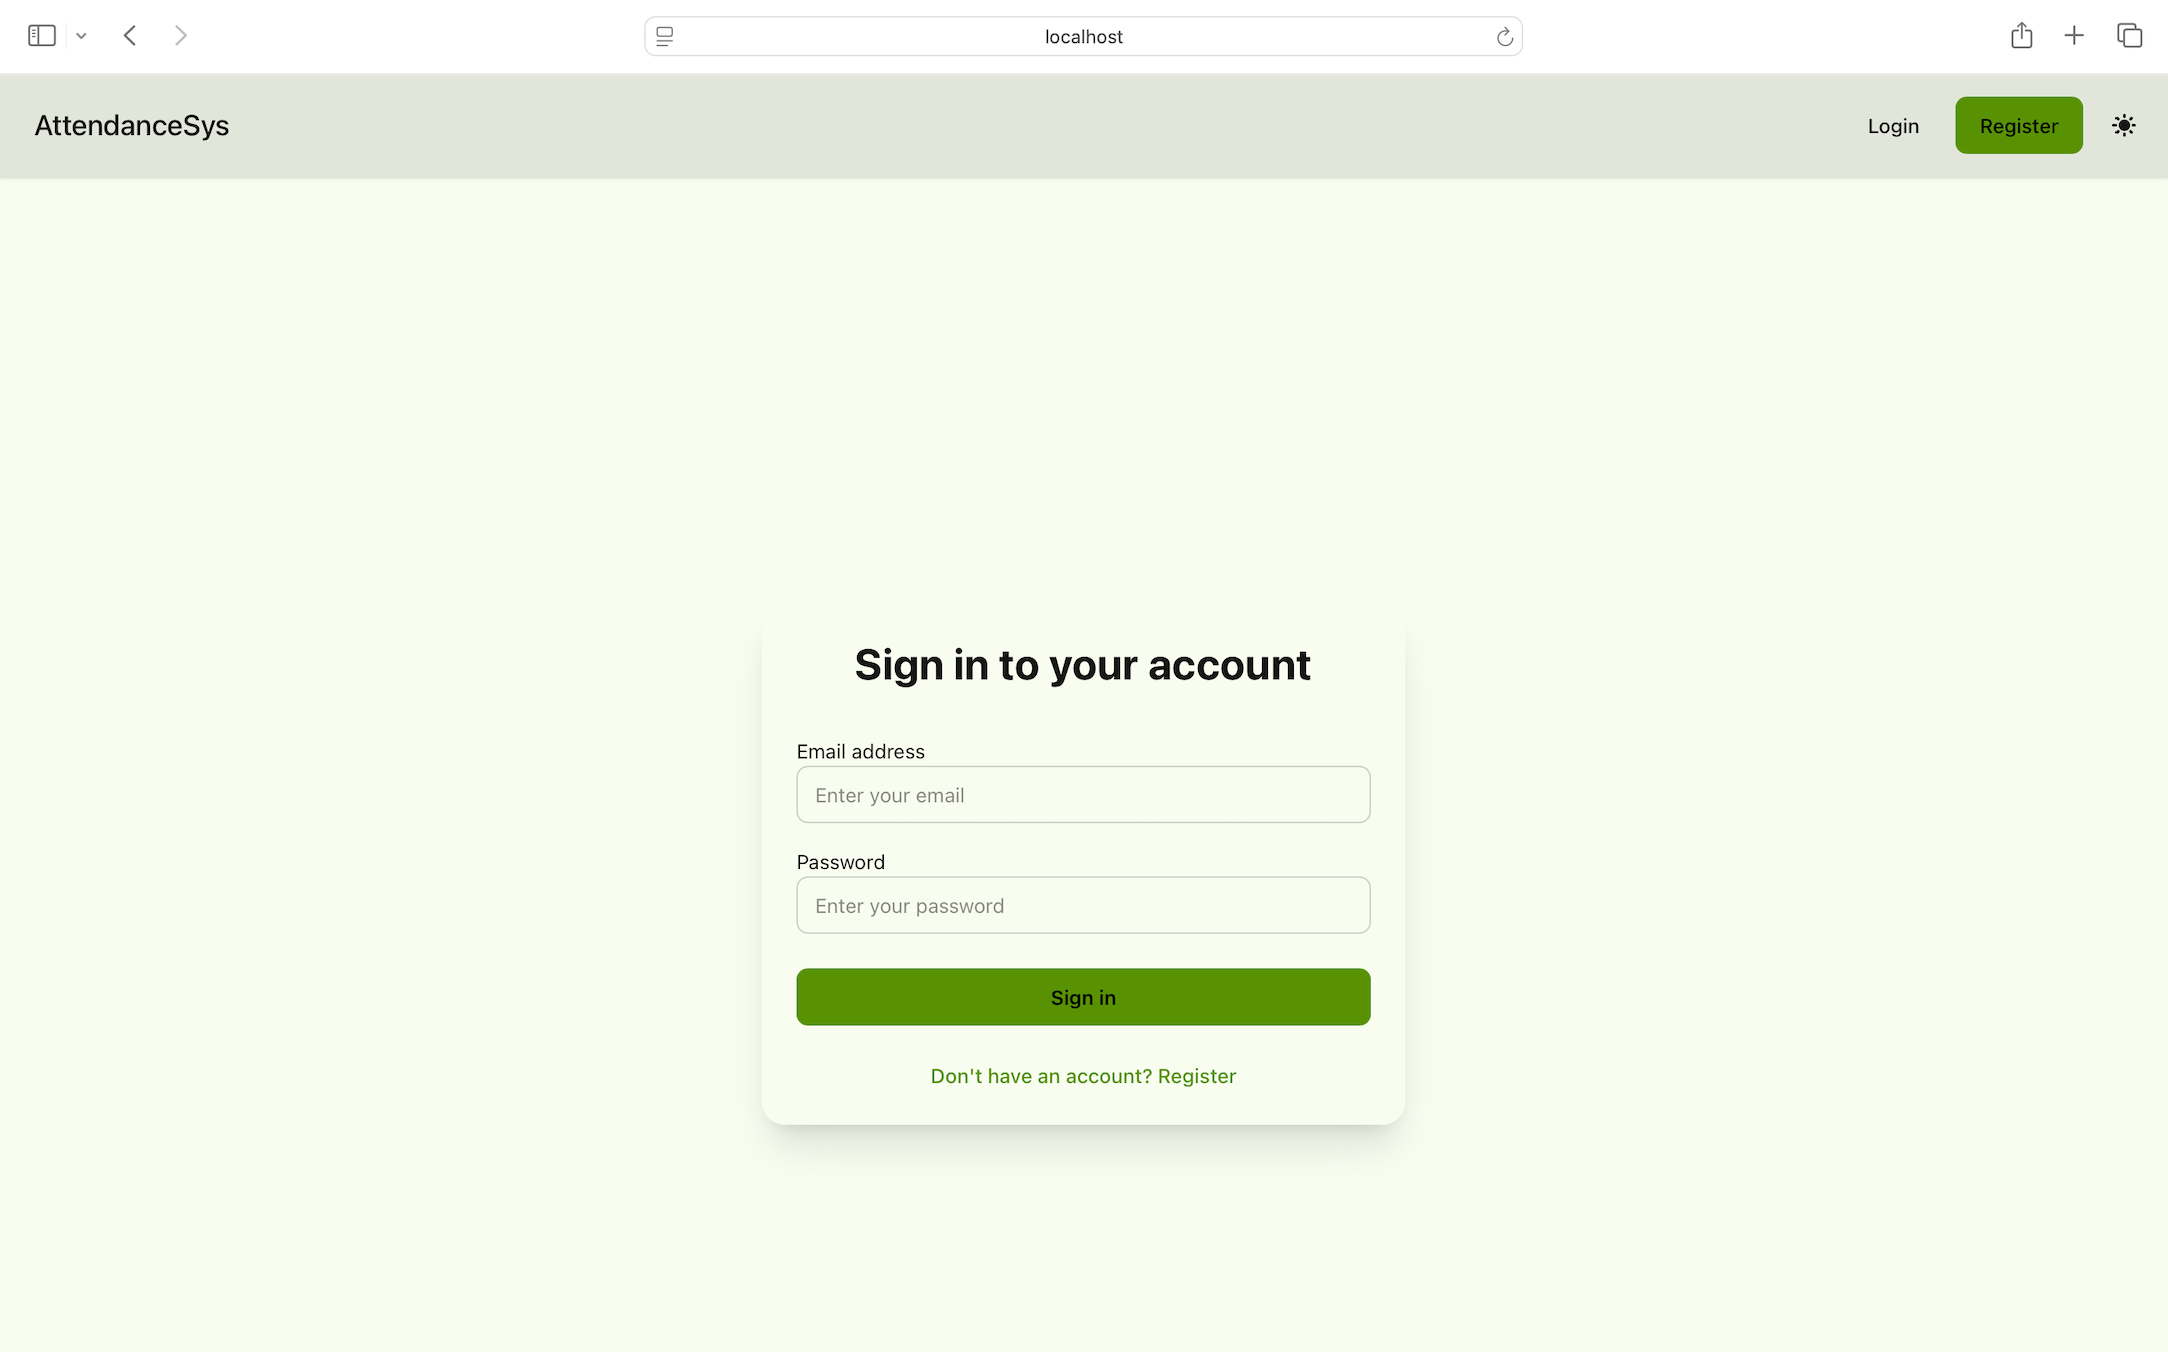
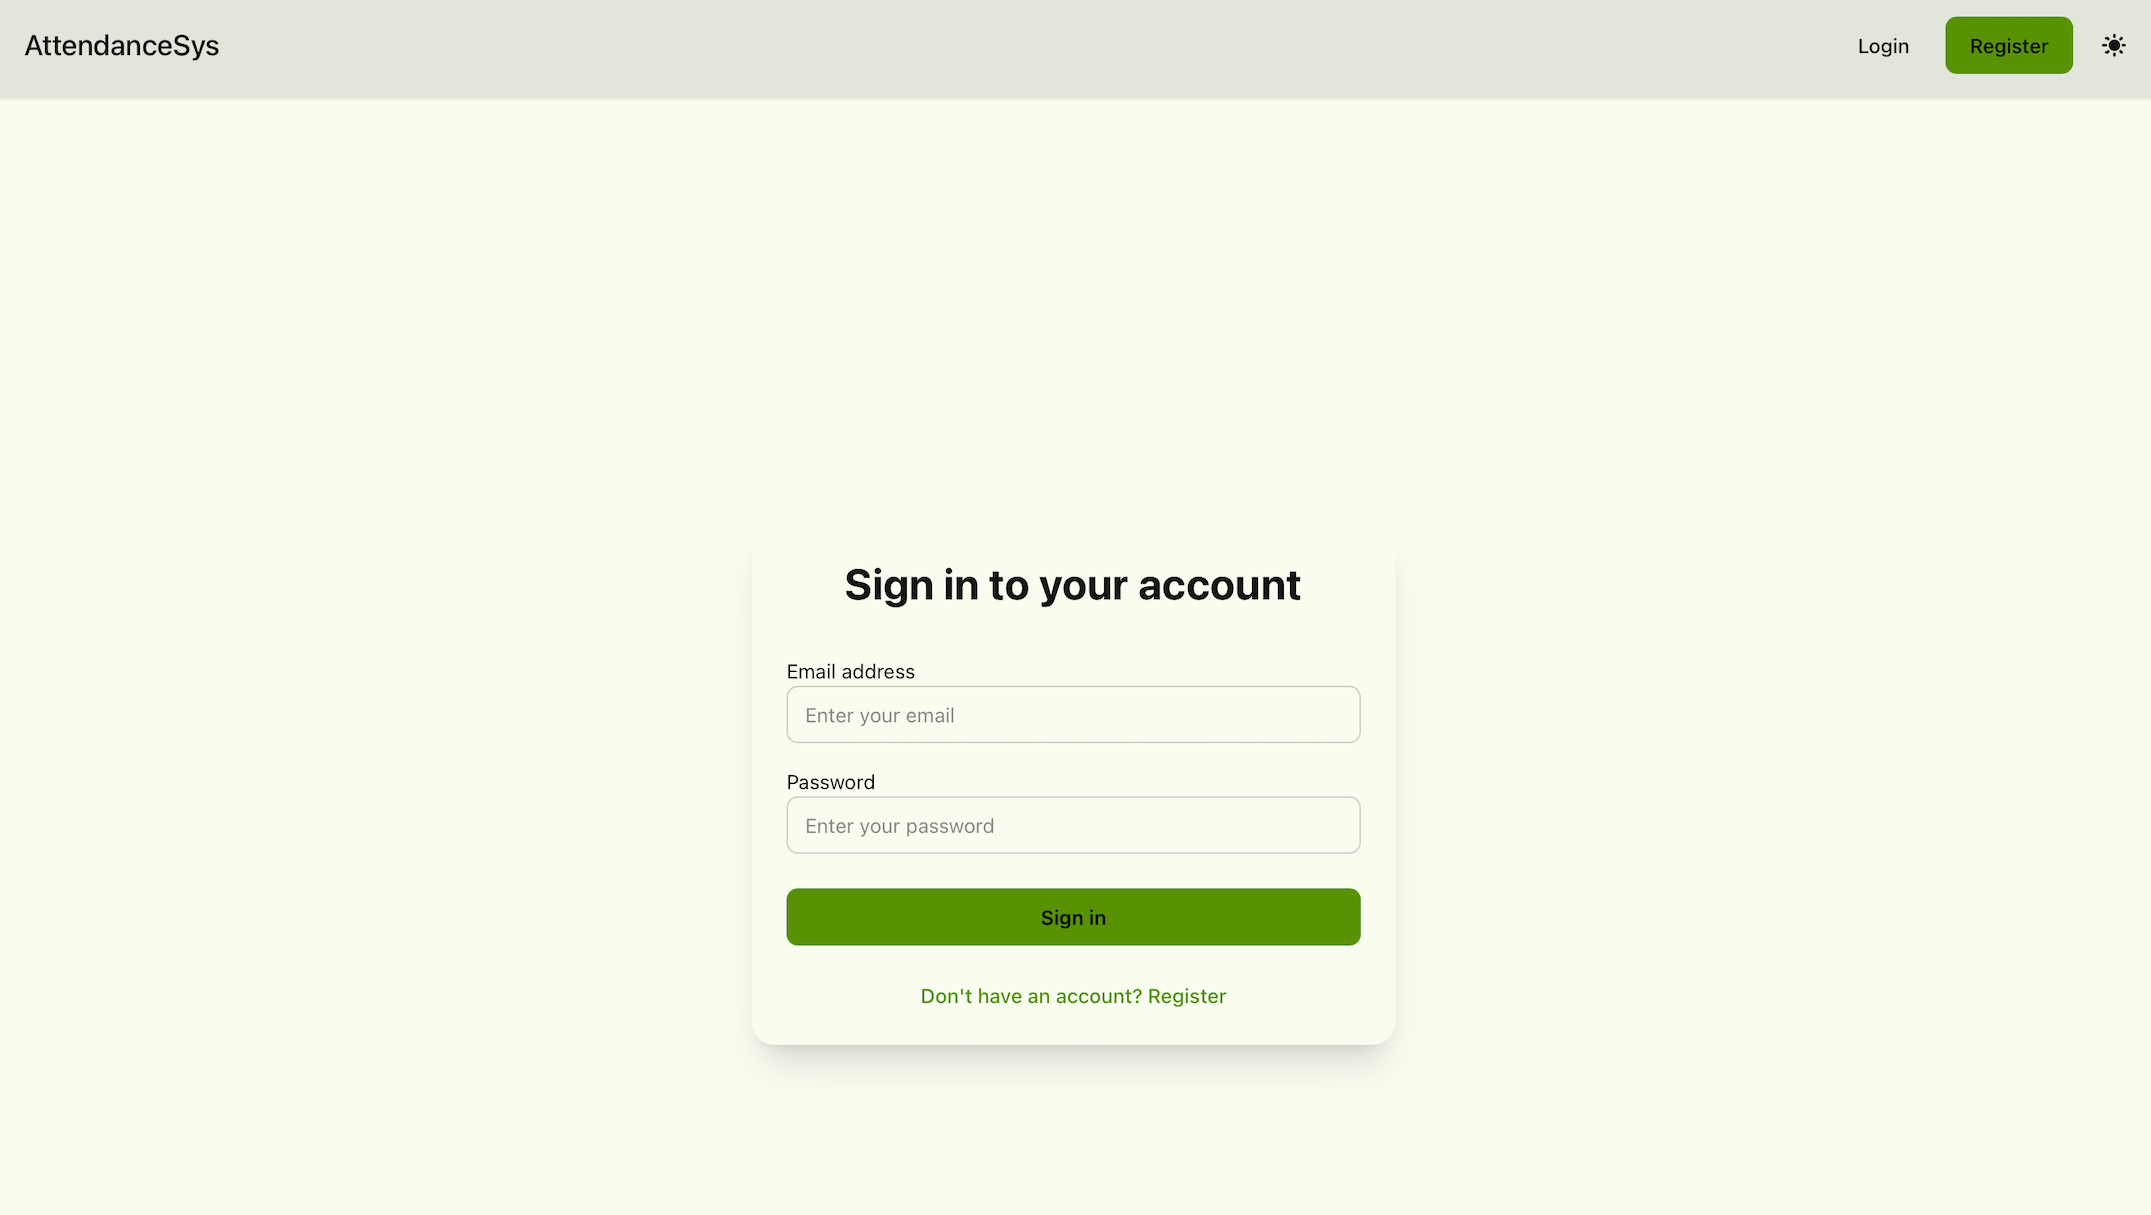
Fix layout attribute duplication and optimize image fit

Changed region(s): [[0.0, 0.0, 1.0, 0.1218], [0.3426, 0.5481, 0.6541, 0.8831], [0.3738, 0.4568, 0.623, 0.5177]]

diff --git a/src/components/WorkExperience.vue b/src/components/WorkExperience.vue
@@ -30,7 +30,7 @@
                         <ul class="space-y-3">
                             <li v-for="(point, i) in selectedJob.points" :key="i" class="flex items-start gap-3">
                                 <span class="text-purple-400 mt-1.5 shrink-0">✦</span>
-                                <span class="text-sm text-slate-600 leading-relaxed">{{ point }}</span>
+                                <span class="text-xs text-slate-600 leading-relaxed">{{ point }}</span>
                             </li>
                         </ul>
 
@@ -56,32 +56,52 @@ import FolderCard from './FolderCard.vue'
 
 const experiences = [
     {
-        company: "Just Click IT Solutions",
-        role: "Full Stack Developer",
-        date: "Aug 2023 – Nov 2025",
-        location: "Remote",
+        company: "Just Click IT Solution",
+        role: "Fullstack Developer",
+        date: "2023 – 2025",
+        location: "Remote | Cebu City",
         points: [
-            "Designed responsive UI/UX layouts using Figma.",
-            "Developed user-centered web apps with modern frontend practices.",
-            "Implemented SEO optimization for search visibility.",
-            "Conducted E2E testing with Cypress.",
-            "Managed cloud deployment via cPanel.",
-            "Maintained Django-based backend systems."
+            "Designed responsive UI/UX layouts using Figma, ensuring intuitive and user-friendly interfaces.",
+            "Developed user-centered web applications using React.js and modern frontend best practices.",
+            "Implemented SEO optimization techniques to improve search engine visibility and performance.",
+            "Conducted end-to-end (E2E) testing using Cypress to ensure application reliability.",
+            "Managed cloud deployment and hosting using cPanel.",
+            "Maintained backend systems built with Python (Django REST Framework).",
+            "Handled database design, management, and optimization using MySQL."
         ],
-        tech: ["Figma", "Vue.js", "Django", "Cypress", "cPanel", "SEO"]
+        tech: ["Figma", "React.js", "SEO", "Cypress", "cPanel", "Python", "Django", "MySQL"]
     },
     {
         company: "PHINMA-CDO College",
         role: "Lead Developer & Project Manager",
-        date: "Sep 2023 – Nov 2025",
-        location: "Capstone",
+        date: "2024 – 2025",
+        location: "Cagayan De Oro",
         points: [
-            "Led development of a Reservation Monitoring System.",
-            "Managed project planning and task delegation.",
-            "Refactored 80% of codebase for performance.",
-            "API testing with Postman."
+            "Led the development of a Reservation Monitoring System using C# (ASP.NET), GraphQL, RESTful APIs, MySQL, and React.js, supporting real-time tracking of reservations.",
+            "Managed project planning, task delegation, and progress tracking using Trello, ensuring on-time delivery of key milestones.",
+            "Refactored 80% of the codebase, improving system performance by up to 40% and reducing load times significantly.",
+            "Optimized API performance, reducing response time from ~2s to under 1s for key endpoints.",
+            "Conducted API testing and validation using Postman, identifying and resolving critical issues before deployment.",
+            "Supported concurrent users and ensured system stability during peak usage."
         ],
-        tech: ["Flutter", "ReactJS", "PHP", "MySQL", "Postman"]
+        tech: ["C#", "ASP.NET", "GraphQL", "REST API", "MySQL", "React.js", "Trello", "Postman"]
+    },
+    {
+        company: "Innovuze Solution Inc.",
+        role: "Project Manager Intern",
+        date: "2025 – 2026",
+        location: "Office",
+        points: [
+            "Managed internal projects (LunchBuddies App, RevePay) using Azure DevOps.",
+            "Monitored and resolved bug tickets to improve system performance.",
+            "Used Trello to streamline team collaboration and task tracking.",
+            "Performed data scraping and analysis to assess project health.",
+            "Built dashboards in Looker Studio for data-driven reporting.",
+            "Documented Minutes of Meetings (MoM) for team alignment.",
+            "Created SOPs, SOWs, and proposals to standardize processes.",
+            "Applied prompt engineering techniques using Claude AI, Ollama, and Codex for productivity and development support."
+        ],
+        tech: ["Azure DevOps", "Trello", "Looker Studio", "Claude AI", "Ollama", "Codex"]
     }
 ]
 

diff --git a/index.html b/index.html
@@ -5,10 +5,31 @@
   <meta charset="UTF-8" />
   <link rel="icon" type="image/x-icon" href="/favicon.ico?v=1" />
   <meta name="viewport" content="width=device-width, initial-scale=1.0" />
-  <title>Resume Portfolio by Melanie Abalde</title>
+  <title>Melanie Abalde | Fullstack Web & Mobile Developer Portfolio</title>
+  <meta name="description" content="Portfolio of Melanie Abalde, a Fullstack Developer and Project Manager specializing in Vue.js, React.js, Python, and mobile app development." />
+  <meta name="keywords" content="Melanie Abalde, Fullstack Developer, Web Developer, Mobile Developer, Vue.js, React.js, Python, Django, Flutter, Project Manager, Portfolio" />
+  <meta name="author" content="Melanie Abalde" />
+  
+  <!-- Open Graph / Facebook -->
+  <meta property="og:type" content="website" />
+  <meta property="og:url" content="https://resume-portfolioby-melanie.vercel.app/" />
+  <meta property="og:title" content="Melanie Abalde | Fullstack Developer Portfolio" />
+  <meta property="og:description" content="Portfolio of Melanie Abalde, a Fullstack Developer and Project Manager specializing in modern web and mobile applications." />
+  <meta property="og:image" content="https://resume-portfolioby-melanie.vercel.app/favicon.ico" />
+
+  <!-- Twitter -->
+  <meta property="twitter:card" content="summary_large_image" />
+  <meta property="twitter:url" content="https://resume-portfolioby-melanie.vercel.app/" />
+  <meta property="twitter:title" content="Melanie Abalde | Fullstack Developer Portfolio" />
+  <meta property="twitter:description" content="Portfolio of Melanie Abalde, a Fullstack Developer and Project Manager specializing in modern web and mobile applications." />
+  <meta property="twitter:image" content="https://resume-portfolioby-melanie.vercel.app/favicon.ico" />
+
+  <!-- Canonical URL -->
+  <link rel="canonical" href="https://resume-portfolioby-melanie.vercel.app/" />
   <link rel="preconnect" href="https://fonts.googleapis.com">
   <link rel="preconnect" href="https://fonts.gstatic.com" crossorigin>
   <link href="https://fonts.googleapis.com/css2?family=Outfit:wght@100..900&display=swap" rel="stylesheet">
+  <link href="https://fonts.googleapis.com/css2?family=Inter:ital,opsz,wght@0,14..32,100..900;1,14..32,100..900&display=swap" rel="stylesheet">
 </head>
 
 <body>

diff --git a/src/components/ProfileCard.vue b/src/components/ProfileCard.vue
@@ -47,7 +47,20 @@ onMounted(() => {
     </div>
 
     <!-- Social Icons (Top Right Absolute) -->
-    <div class="absolute top-8 right-8 flex gap-3">
+    <div class="absolute top-8 right-8 flex items-end gap-8  hover:text-purple-600 transition-colors">
+      <div class="relative flex flex-col -mr-2">
+        <a href="https://www.instagram.com/mella.l_a/?hl=en" target="_blank"
+          class="absolute -top-3.5 left-0 text-[7px] font-bold tracking-wider text-slate-400 whitespace-nowrap">
+          @mella.l_a
+        </a>
+        <a href=" https://www.instagram.com/mella.l_a/?hl=en" target="_blank"
+          class="text-purple-400 hover:text-purple-600 transition-colors" title="Instagram">
+          <svg xmlns="http://www.w3.org/2000/svg" width="22" height="22" viewBox="0 0 24 24" fill="currentColor">
+            <path
+              d="M12 2.163c3.204 0 3.584.012 4.85.07 3.252.148 4.771 1.691 4.919 4.919.058 1.265.069 1.645.069 4.849 0 3.205-.012 3.584-.069 4.849-.149 3.225-1.664 4.771-4.919 4.919-1.266.058-1.644.07-4.85.07-3.204 0-3.584-.012-4.849-.07-3.26-.149-4.771-1.699-4.919-4.92-.058-1.265-.07-1.644-.07-4.849 0-3.204.013-3.583.07-4.849.149-3.227 1.664-4.771 4.919-4.919 1.266-.057 1.645-.069 4.849-.069zm0-2.163c-3.259 0-3.667.014-4.947.072-4.358.2-6.78 2.618-6.98 6.98-.059 1.281-.073 1.689-.073 4.948 0 3.259.014 3.668.072 4.948.2 4.358 2.618 6.78 6.98 6.98 1.281.058 1.689.072 4.948.072 3.259 0 3.668-.014 4.948-.072 4.354-.2 6.782-2.618 6.979-6.98.059-1.28.073-1.689.073-4.948 0-3.259-.014-3.667-.072-4.947-.196-4.354-2.617-6.78-6.979-6.98-1.281-.059-1.69-.073-4.949-.073zm0 5.838c-3.403 0-6.162 2.759-6.162 6.162s2.759 6.163 6.162 6.163 6.162-2.759 6.162-6.163c0-3.403-2.759-6.162-6.162-6.162zm0 10.162c-2.209 0-4-1.79-4-4 0-2.209 1.791-4 4-4s4 1.791 4 4c0 2.21-1.791 4-4 4zm6.406-11.845c-.796 0-1.441.645-1.441 1.44s.645 1.44 1.441 1.44c.795 0 1.439-.645 1.439-1.44s-.644-1.44-1.439-1.44z" />
+          </svg>
+        </a>
+      </div>
       <!-- Github -->
       <a href="https://github.com/Araanna" target="_blank"
         class="text-purple-400 hover:text-purple-600 transition-colors" title="GitHub">
@@ -64,6 +77,7 @@ onMounted(() => {
             d="M19 0h-14c-2.761 0-5 2.239-5 5v14c0 2.761 2.239 5 5 5h14c2.762 0 5-2.239 5-5v-14c0-2.761-2.238-5-5-5zm-11 19h-3v-11h3v11zm-1.5-12.268c-.966 0-1.75-.79-1.75-1.764s.784-1.764 1.75-1.764 1.75.79 1.75 1.764-.783 1.764-1.75 1.764zm13.5 12.268h-3v-5.604c0-3.368-4-3.113-4 0v5.604h-3v-11h3v1.765c1.396-2.586 7-2.777 7 2.476v6.759z" />
         </svg>
       </a>
+
     </div>
 
     <div class="flex flex-col gap-8 md:flex-row md:items-center">

diff --git a/src/components/ScrollReveal.vue b/src/components/ScrollReveal.vue
@@ -21,7 +21,10 @@ let observer = null
 
 onMounted(() => {
     observer = new IntersectionObserver(([entry]) => {
-        isVisible.value = entry.isIntersecting
+        if (entry.isIntersecting) {
+            isVisible.value = true
+            if (elRef.value) observer.unobserve(elRef.value)
+        }
     }, { threshold: props.threshold })
 
     if (elRef.value) {

diff --git a/src/components/ProjectSpotlight.vue b/src/components/ProjectSpotlight.vue
@@ -7,9 +7,9 @@
             <div class="absolute inset-0 z-0">
                 <transition name="fade" mode="out-in">
                     <div :key="currentProject.title" class="absolute inset-0 w-full h-full">
-                        <!-- Image: object-contain to fit perfectly, opacity adjusted for background fade -->
+                        <!-- Image: object-cover to fit perfectly, opacity adjusted for background fade -->
                         <img :src="currentProject.image" :alt="currentProject.title"
-                            class="w-full h-full object-contain object-bottom opacity-80 transition-transform duration-700 ease-out" />
+                            class="w-full h-full object-cover object-center opacity-80 transition-transform duration-700 ease-out" />
                         <!-- Deep Purple Gradient Overlay (Lighter for visibility) -->
                         <div
                             class="absolute inset-0 bg-linear-to-t from-[#1a0b2e] via-[#1a0b2e]/50 to-[#1a0b2e]/30 pointer-events-none">

diff --git a/src/components/TiltedCard.vue b/src/components/TiltedCard.vue
@@ -75,7 +75,8 @@ const props = defineProps({
   showMobileWarning: { type: Boolean, default: true },
   showTooltip: { type: Boolean, default: true },
   displayOverlayContent: { type: Boolean, default: false },
-  isFocused: { type: Boolean, default: false }
+  isFocused: { type: Boolean, default: false },
+  objectFit: { type: String, default: 'cover' }
 })
 
 const figureRef = ref(null)

diff --git a/src/style.css b/src/style.css
@@ -1,5 +1,8 @@
 @import "tailwindcss";
 
+@theme {
+  --font-sans: "Inter", sans-serif;
+}
 /* Hide scrollbar for Chrome, Safari and Opera */
 .scrollbar-hide::-webkit-scrollbar {
     display: none;